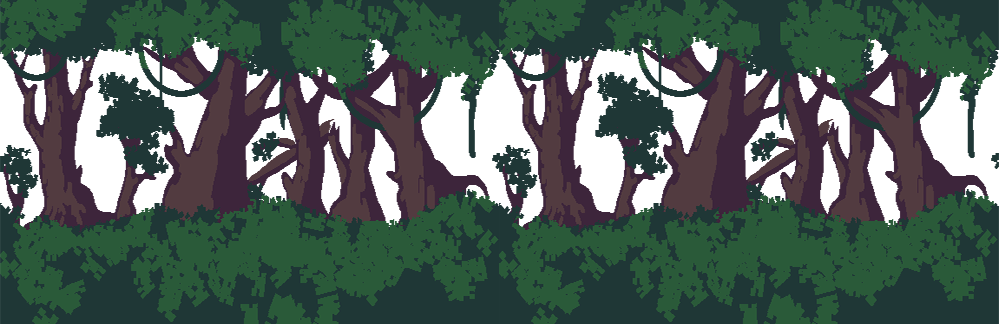
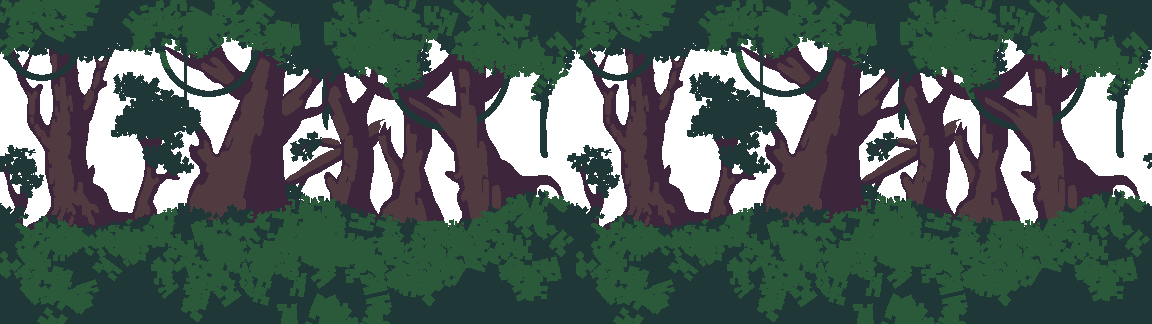
change bacground resources

diff --git a/src/utilz/Constants.java b/src/utilz/Constants.java
@@ -5,8 +5,8 @@ import java.awt.Color;
 public class Constants {
 
     public static class Environment {
-        public static final int ENV_WIDTH_DEFAULT = 1000;
-        public static final int ENV_HEIGHT_DEFAULT = 234;
+        public static final int ENV_WIDTH_DEFAULT = 1152;
+        public static final int ENV_HEIGHT_DEFAULT = 324;
         public static final Color BG_COLOR = new Color(86, 88, 123);
     }
 
